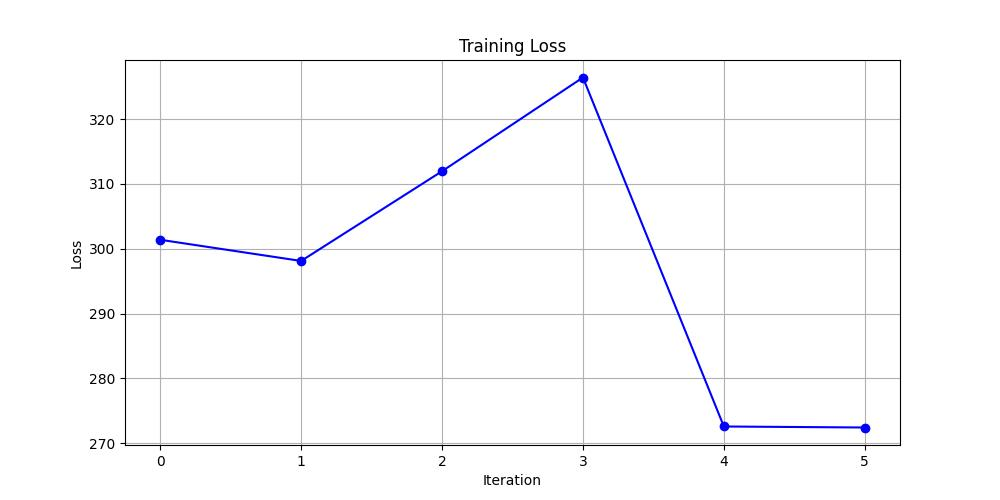
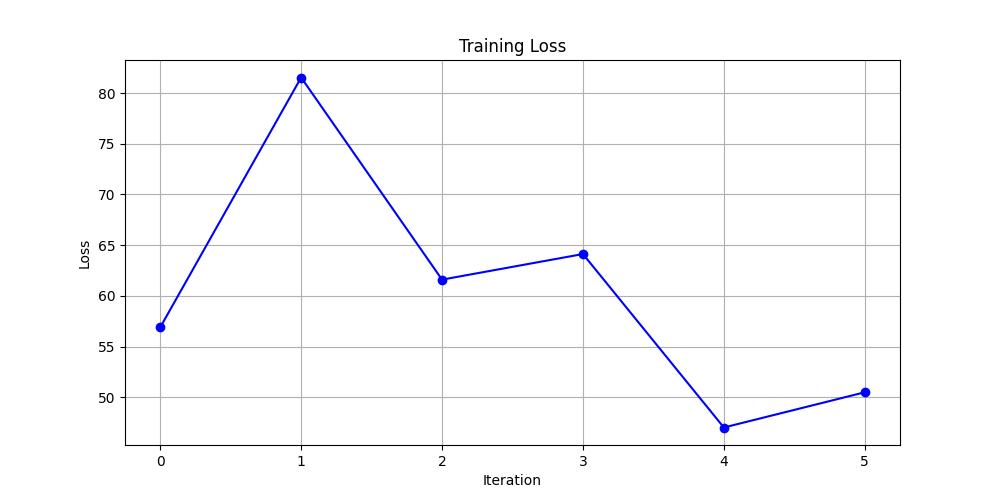
added peas, fixed a data creation bug

diff --git a/inference.py b/inference.py
@@ -2,8 +2,8 @@ from model import inference
 from PIL import Image, ImageOps
 from create_datasets import pad_image
 
-base_image_path = "/workspaces/automoated_drone_image_alignment/georeferenced_image_pairs/radish_desication_mats/odm_orthophoto_08032024_georeferenced.png"
-new_image_path = "/workspaces/automoated_drone_image_alignment/test_image/odm_orthophoto_radish_desication.tif"
+base_image_path = "/workspaces/automoated_drone_image_alignment/georeferenced_image_pairs/beets_desication/beet_desication_02222024_georeferenced.png"
+new_image_path = "/workspaces/automoated_drone_image_alignment/test_image/odm_orthophoto_beet_desication.tif"
 padded_image_size=(1280, 1280) 
 output_res = (1024,1024)
 
@@ -13,31 +13,29 @@ print(affine_matrix)
 
 
 new_image = Image.open(new_image_path).convert('RGB')
+new_image.save("1.png")
 new_image_resize = new_image.resize(output_res, Image.LANCZOS)
+new_image_resize.save("2.png")
 new_image_padded = pad_image(new_image_resize, padding = padded_image_size)
-
+new_image_padded.save("3.png")
 transformed_image = new_image_padded.transform(
         new_image_padded.size,
         Image.AFFINE,
         affine_matrix,
         resample=Image.BILINEAR
     )
+transformed_image.save("4.png")
+# Calculate crop box
+pad_width = padded_image_size[0] - output_res[0]
+pad_height = padded_image_size[1] - output_res[1]
+pad_left = pad_width // 2
+pad_top = pad_height // 2
+pad_right = pad_width - pad_left
+pad_bottom = pad_height - pad_top
+crop_box = (pad_left, pad_top, padded_image_size[0] - pad_right, padded_image_size[1] - pad_bottom)
+unpadded_img = transformed_image.crop(crop_box)
+unpadded_img.save("5.png")
+transformed_unpadded_img = unpadded_img.resize(new_image.size, Image.LANCZOS)
 
-transformed_image = transformed_image.resize(new_image.size, Image.LANCZOS)
+transformed_unpadded_img.save('transformed_image.png')
 
-transformed_image.save('transformed_image.png')
-
-
-# the following is just to debug that the image minipulation is working correctly, it is but will leave this here for now
-base_image = Image.open(base_image_path).convert('RGB')
-base_image_resize = base_image.resize(output_res, Image.LANCZOS)
-base_image_padded = pad_image(base_image_resize, padding = padded_image_size)
-base_transformed_image = base_image_padded.transform(
-        base_image_padded.size,
-        Image.AFFINE,
-        [1, 0, 0, 0, 1, 0], # affine matrix which does nothing
-        resample=Image.BILINEAR
-    )
-
-base_transformed_image = base_transformed_image.resize(base_image.size, Image.LANCZOS)
-base_transformed_image.save('base_transformed_image.png')

diff --git a/create_datasets.py b/create_datasets.py
@@ -39,7 +39,11 @@ def invert_affine_transform(affine_matrix):
 def pad_image(img, padding = (1280, 1280)):
     pad_width, pad_height = padding
     img_width, img_height = img.size
-    
+    left = (pad_width - img_width) // 2
+    top = (pad_height - img_height) // 2
+    right = pad_width - img_width - left
+    bottom = pad_height - img_height - top
+
     if img_width > pad_width:
         #print("Warning: padding width is smaller than image width, cropping image to fit the padding size.")
         left = (img_width - pad_width) // 2
@@ -54,11 +58,12 @@ def pad_image(img, padding = (1280, 1280)):
         img = img.crop((0, top, img_width, bottom))
         
     # adding padding to the image so that it doesnt cut off anything during the transform - note in the absolute extremes the padding does nto acount for rotation so may crop a little
-    padded_img = ImageOps.pad(img, (pad_width, pad_height), color=0)
+    padded_img = Image.new('RGB', (pad_width, pad_height), color=0)
+    padded_img.paste(img, (left, top))
 
     return padded_img
 
-def combined_affine_transform(image, rotation_range=(-5, 5), translation=(0.05, 0.05), scale=(0.95, 1.05), padded_size = (1280, 1280)):
+def combined_affine_transform(image, rotation_range=(-5, 5), translation=(0.02, 0.02), scale=(0.95, 1.05), padded_size = (1280, 1280)):
     
     """
     Function to do a random affine transform on an image,
@@ -97,7 +102,6 @@ def combined_affine_transform(image, rotation_range=(-5, 5), translation=(0.05, 
     
     affine = (a, b, c, d, e, f)
     inv_affine = invert_affine_transform(affine)
-    
 
     padded_image = pad_image(image, padding = padded_size)
     # apply affine transformation

diff --git a/test_training_set_creation.py b/test_training_set_creation.py
@@ -1,0 +1,38 @@
+from PIL import Image, ImageOps
+from create_datasets import pad_image, combined_affine_transform
+
+base_image_path = "/workspaces/automoated_drone_image_alignment/test_training_set_images/darfield radish 03042023_georeferenced.png"
+padded_image_size = (1280, 1280)
+output_res = (1024, 1024)
+
+
+
+# Open and resize the image
+img = Image.open(base_image_path).convert('RGB')
+img_resize = img.resize(output_res, Image.LANCZOS)
+img_transformed, affine_matrix = combined_affine_transform(img_resize, padded_size=padded_image_size)
+
+# Transform the image back
+transformed_back_image = img_transformed.transform(
+    img_transformed.size,
+    Image.AFFINE,
+    affine_matrix,
+    resample=Image.BILINEAR
+)
+
+# Calculate crop box
+pad_width = padded_image_size[0] - output_res[0]
+pad_height = padded_image_size[1] - output_res[1]
+pad_left = pad_width // 2
+pad_top = pad_height // 2
+pad_right = pad_width - pad_left
+pad_bottom = pad_height - pad_top
+crop_box = (pad_left, pad_top, padded_image_size[0] - pad_right, padded_image_size[1] - pad_bottom)
+
+# Crop and resize back to original size
+unpadded_img = transformed_back_image.crop(crop_box)
+
+rebuilt_transformed_image = unpadded_img.resize(img.size, Image.LANCZOS)
+
+
+

diff --git a/train.py b/train.py
@@ -8,10 +8,10 @@ image_pair_folder = '/workspaces/automoated_drone_image_alignment/georeferenced_
 list_of_trial_folders = os.listdir(image_pair_folder)
 best_model_file = 'best_model.pth'
 batch_size = 16
-num_epochs = 100
-learning_rate = 0.0002
-training_set_size = 500
-val_set_size = 20
+num_epochs = 200
+learning_rate = 0.0005
+training_set_size = 1024
+val_set_size = 256
 padded_image_size = (1280, 1280)
 output_res = (1024,1024)
 

diff --git a/model.py b/model.py
@@ -141,7 +141,6 @@ def train_stn(dataloader, dataloader_val, num_epochs=10, learning_rate=0.001, pa
                 
                 loss = criterion(predicted_affine, affine)
                 val_loss += loss.item()
-                print(val_loss)
     
             val_loss /= len(dataloader_val)  
             val_loss_list.append(val_loss)
